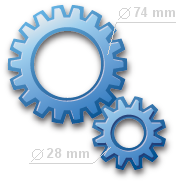
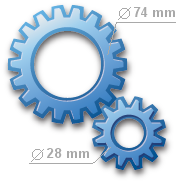
Adjust the color for callout, add license path parameter

diff --git a/Examples/CSharp/RunExamples.cs b/Examples/CSharp/RunExamples.cs
@@ -8,8 +8,11 @@ namespace Aspose.Drawing.Examples.CSharp
         {
             //ConvertImage.Run();
 
-            // Uncomment if you have a license:
-            // LoadLicenseFromFile();
+            // Use a path to license file as a parameter if you have Aspose.Drawing license:
+            if(args.Length>0 && File.Exists(args[0]))
+            {
+				LoadLicenseFromFile(args[0]);
+			}            
 
             UseCases.TextOnImage.Run();
 			UseCases.PhotoFrame.Run();
@@ -76,12 +79,12 @@ namespace Aspose.Drawing.Examples.CSharp
             return Path.Combine(startDirectory, "Data\\");
         }
 
-        private static void LoadLicenseFromFile()
+        private static void LoadLicenseFromFile(string licensePath)
         {
 			// Initialize license object
 			System.Drawing.AsposeDrawing.License license = new System.Drawing.AsposeDrawing.License();
             // Set license
-            license.SetLicense("Aspose.Drawing.lic ");
+            license.SetLicense(licensePath);
         }
     }
 }

diff --git a/Examples/CSharp/UseCases/MakeCallOut.cs b/Examples/CSharp/UseCases/MakeCallOut.cs
@@ -30,7 +30,7 @@ namespace Aspose.Drawing.Examples.CSharp.UseCases
 
 			void DrawCallOut(Graphics graphic, PointF startAnchor, PointF endAnchor, int value, string unit)
 			{
-				Pen pen = new Pen(Color.LightGray, 1);
+				Pen pen = new Pen(Color.DarkGray, 1);
 
 				Font font = new Font("Arial", 10, FontStyle.Bold);
 
@@ -55,7 +55,7 @@ namespace Aspose.Drawing.Examples.CSharp.UseCases
 				graphic.DrawEllipse(pen, new Rectangle((int)textAnchorX + spaceSize, (int)(textAnchorY - textSize.Height) + spaceSize, 10, 10));
 				graphic.DrawLine(pen, (int)textAnchorX + 1, (int)textAnchorY - 1, (int)textAnchorX + diameterSymbolSize + 2, (int)textAnchorY - diameterSymbolSize - 2);
 
-				SolidBrush brush = new SolidBrush(Color.LightGray);
+				SolidBrush brush = new SolidBrush(Color.DarkGray);
 
 				graphic.DrawString(outputValue, font, brush, (int)textAnchorX + diameterSymbolSize + spaceSize, (int)(textAnchorY - textSize.Height));
 			}
